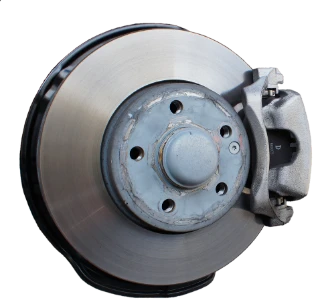
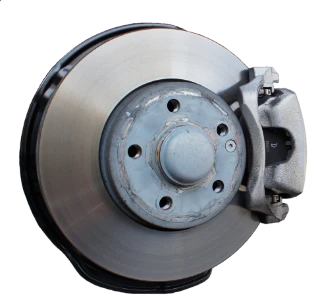
feat(hero): oval ring, consistent badge size, plain part names; product photos
Owner asked for: consistent text size per car, a more oval / taller ring
with the labels lower, "Engine parts" not "Mercedes-AMG", no red brand
lines, "Body parts" not "Front bumper", and images on the products.

Hero
- Badge letters are now the same height on every car. Each word used to
  be fitted to its own box, so BMW's letters were ~2x MERCEDES's. Every
  SVG is now sized as a fraction (--bw) of the LONGEST badge, so the
  letter height is shared and only the word's width differs. VOLKSWAGEN
  and RANGE ROVER badges shortened to VW / ROVER so the shared scale
  stays big (measured: all six 194px tall / 181px letters).
- Ring is more oval: --rx 41vw -> 43vw, --ry 16.4vw -> 18vw; the stage is
  taller (52vw/660 -> 56vw/730) and the ring lifted (inset-bottom 128px)
  so the lower arc clears the model caption. Labels sit 16px below the
  image. index.html's skeleton stage height synced (it had drifted).
- Brand lines (Lemforder, OEM, Remsa, ...) removed from every part.
  "Mercedes-AMG Engine & parts" -> "Engine parts"; "Front bumper" ->
  "Body parts".
- Brake disc cut-out re-exported: a fixed 72% cap had clipped ~10px off
  the caliper (solid edge is at 72.7%). Now found by scanning columns.

Products
- img/products/: spark plug, brake caliper, suspension and tail-light
  images (480px WebP). The tail light is a Pixabay photo (Content
  License), cropped to the lamp, no readable branding.

scripts/bootstrap-admin.js: first-admin creator that prompts for the
[…]

diff --git a/scripts/bootstrap-admin.js b/scripts/bootstrap-admin.js
@@ -1,0 +1,100 @@
+#!/usr/bin/env node
+/*
+ * Creates the FIRST admin account for the German Expert admin panel.
+ *
+ *   node scripts/bootstrap-admin.js
+ *
+ * Run it yourself, in your own terminal (PowerShell / Command Prompt), NOT
+ * through Claude: it asks for the password with the typing hidden, and the
+ * password goes straight from your keyboard to Supabase. Nobody else ever sees
+ * or chooses it.
+ *
+ * It only works ONCE. The edge function refuses to bootstrap as soon as one
+ * admin exists ("already_bootstrapped"); after that, further accounts are
+ * added from the admin panel's own Accounts tab while logged in.
+ *
+ * Plain Node, no dependencies. --dry-run shows what would be sent without
+ * sending it (and without asking for a password).
+ */
+'use strict';
+const fs = require('fs');
+const path = require('path');
+const readline = require('readline');
+
+const DRY = process.argv.includes('--dry-run');
+
+// The URL and the publishable (public, not secret) key live in one config file.
+const cfg = fs.readFileSync(path.join(__dirname, '..', 'code', 'js', '01-config-data.js'), 'utf8');
+const url = (cfg.match(/GE_SB_URL\s*=\s*'([^']+)'/) || [])[1];
+const keyB64 = (cfg.match(/GE_SB_KEY_B64\s*=\s*'([^']+)'/) || [])[1];
+if (!url || !keyB64) { console.error('Could not read the Supabase URL/key from code/js/01-config-data.js'); process.exit(1); }
+const key = Buffer.from(keyB64, 'base64').toString('utf8');
+
+const ROLE_LIST = [
+  ['super',   'super   - owner, full access'],
+  ['bahar15', 'bahar15 - manager'],
+  ['1',       '1       - admin'],
+  ['custom',  'custom  - team member (limited tabs)']
+];
+const ROLES = Object.fromEntries(ROLE_LIST);
+
+const rl = readline.createInterface({ input: process.stdin, output: process.stdout, terminal: !!process.stdin.isTTY });
+let muted = false;
+rl._writeToOutput = function (s) {
+  // While muted, swallow everything except the line break so the password is not echoed.
+  if (!muted) rl.output.write(s);
+  else if (s === '\r\n' || s === '\n') rl.output.write(s);
+};
+// Lines are queued as they arrive, so it works the same typed by hand (hidden
+// password) or piped in for testing.
+const queue = [], waiting = [];
+rl.on('line', line => { muted = false; (waiting.shift() || (v => queue.push(v)))(line); });
+const ask = (q, hidden) => new Promise(res => {
+  process.stdout.write(q);
+  muted = !!hidden;
+  if (queue.length) { muted = false; res(queue.shift()); } else waiting.push(res);
+});
+
+(async () => {
+  console.log('\nGerman Expert - create the first admin account');
+  console.log('Project: ' + url + '\n');
+
+  const username = (await ask('Username (letters/numbers, e.g. owner): ')).trim().toLowerCase();
+  if (!/^[a-z0-9._-]{3,32}$/.test(username)) { console.error('\nUsername must be 3-32 characters: letters, numbers, . _ -'); process.exit(1); }
+
+  console.log('\nRoles:'); ROLE_LIST.forEach(r => console.log('  ' + r[1]));
+  const role = ((await ask('\nRole [super]: ')).trim() || 'super');
+  if (!ROLES[role]) { console.error('\nUnknown role "' + role + '"'); process.exit(1); }
+
+  if (DRY) {
+    console.log('\n--dry-run: would POST to ' + url + '/functions/v1/admin-manage-accounts');
+    console.log(JSON.stringify({ action: 'bootstrap', accounts: [{ username, password: '<hidden>', role }] }, null, 2));
+    rl.close(); return;
+  }
+
+  const pw1 = await ask('Password (typing is hidden, 10+ characters): ', true);
+  const pw2 = await ask('Repeat password: ', true);
+  rl.close();
+  if (pw1 !== pw2) { console.error('\nThe two passwords do not match. Nothing was sent.'); process.exit(1); }
+  if (pw1.length < 10) { console.error('\nUse at least 10 characters. Nothing was sent.'); process.exit(1); }
+
+  const res = await fetch(url + '/functions/v1/admin-manage-accounts', {
+    method: 'POST',
+    headers: { 'Content-Type': 'application/json', apikey: key, Authorization: 'Bearer ' + key },
+    body: JSON.stringify({ action: 'bootstrap', accounts: [{ username, password: pw1, role }] })
+  });
+  const text = await res.text();
+  let body; try { body = JSON.parse(text); } catch (e) { body = { raw: text }; }
+
+  if (res.ok && body.ok) {
+    console.log('\nDone. Account created: ' + username + '  (role: ' + role + ')');
+    console.log('Log in at https://mukarramkebra.github.io/German-Expert/admin/ with that username and your password.');
+  } else if (body && body.error === 'already_bootstrapped') {
+    console.error('\nAn admin account already exists, so bootstrap is closed (it only works once).');
+    console.error('Log in to the admin panel and add more accounts from its Accounts tab.');
+    process.exit(1);
+  } else {
+    console.error('\nFailed (' + res.status + '): ' + text);
+    process.exit(1);
+  }
+})().catch(e => { console.error('\nError: ' + e.message); process.exit(1); });

diff --git a/code/js/08-hero.js b/code/js/08-hero.js
@@ -60,16 +60,16 @@
 // every icon-only entry made way for them (a red glyph vanished into the
 // red make badge behind the car). Eight spaces them 45 degrees apart.
 const HERO_PARTS = [
-  { brand: 'Remsa',         part: 'Brake pads',        cat: 'brakes',      img: 'img/parts/remsa-brake-pads.webp' },
-  { brand: 'OEM',           part: 'Brake disc',        cat: 'brakes',      img: 'img/parts/brake-disc.webp' },
-  { brand: 'Lemförder',     part: 'Control arm',       cat: 'suspension',  img: 'img/parts/lemforder-control-arm.webp' },
-  { brand: 'OEM',           part: 'Suspension & axle', cat: 'suspension',  img: 'img/parts/suspension-assembly.webp' },
-  { brand: 'Hella',         part: 'Headlight unit',    cat: 'body-lights', img: 'img/parts/audi-headlight.webp' },
-  { brand: 'Bosch',         part: 'Spark plugs',       cat: 'electrical',  img: 'img/parts/bosch-spark-plug.webp' },
-  { brand: 'OEM',           part: 'Air filter',        cat: 'filters',     img: 'img/parts/air-filter.webp' },
-  { brand: 'Behr',          part: 'Radiator',          cat: 'cooling',     img: 'img/parts/behr-radiator.webp' },
-  { brand: 'Mercedes-AMG',  part: 'Engine & parts',    cat: 'engine',      img: 'img/parts/engine.webp' },
-  { brand: 'Body',          part: 'Front bumper',      cat: 'body-lights', img: 'img/parts/front-bumper.webp' }
+  { part: 'Brake pads',        cat: 'brakes',      img: 'img/parts/remsa-brake-pads.webp' },
+  { part: 'Brake disc',        cat: 'brakes',      img: 'img/parts/brake-disc.webp' },
+  { part: 'Control arm',       cat: 'suspension',  img: 'img/parts/lemforder-control-arm.webp' },
+  { part: 'Suspension & axle', cat: 'suspension',  img: 'img/parts/suspension-assembly.webp' },
+  { part: 'Headlight unit',    cat: 'body-lights', img: 'img/parts/audi-headlight.webp' },
+  { part: 'Spark plugs',       cat: 'electrical',  img: 'img/parts/bosch-spark-plug.webp' },
+  { part: 'Air filter',        cat: 'filters',     img: 'img/parts/air-filter.webp' },
+  { part: 'Radiator',          cat: 'cooling',     img: 'img/parts/behr-radiator.webp' },
+  { part: 'Engine parts',      cat: 'engine',      img: 'img/parts/engine.webp' },
+  { part: 'Body parts',        cat: 'body-lights', img: 'img/parts/front-bumper.webp' }
 ];
 
 const HERO_CARS = [
@@ -133,7 +133,7 @@ const HERO_CARS = [
     srcSmall: 'img/hero/vw-touareg-sm.webp', wSmall: 760,
     model: 'TOUAREG',
     make: 'volkswagen',
-    badge: 'VOLKSWAGEN',
+    badge: 'VW',
     scale: 0.84,
     alt: 'Volkswagen Touareg SUV',
     callouts: [
@@ -150,7 +150,7 @@ const HERO_CARS = [
     srcSmall: 'img/hero/range-rover-sport-sm.webp', wSmall: 760,
     model: 'SPORT',
     label: 'Range Rover',
-    badge: 'RANGE ROVER',
+    badge: 'ROVER',
     scale: 0.9,
     alt: 'Range Rover Sport SUV',
     callouts: [
@@ -200,6 +200,16 @@ const HERO_SHADER_PRESET = {
       const m = (typeof CAR_MAKES !== 'undefined' && Array.isArray(CAR_MAKES)) ? CAR_MAKES.find(x => x.slug === slug) : null;
       return m ? m.label : '';
     };
+    // One shared scale for every badge. Each word used to be fitted to its own
+    // box, so a 3-letter word (BMW) came out with letters twice the height of an
+    // 8-letter one (MERCEDES). Sizing every SVG as a fraction of the LONGEST
+    // word's width gives all of them identical letter height; only the width of
+    // the word changes. Keep badges short or the longest one sets the size.
+    const badgeVbW = c => {
+      const t = String(c.badge || c.label || makeName(c.make) || c.model || '').trim();
+      return Math.max(360, t.length * 190 + 60);
+    };
+    const maxBadgeVbW = Math.max.apply(null, cars.map(badgeVbW));
     stage.innerHTML = cars.map((c, i) => {
       const label = c.label || makeName(c.make);
       const scale = Number(c.scale) > 0 ? Number(c.scale) : 1;
@@ -213,7 +223,7 @@ const HERO_SHADER_PRESET = {
       // so the stroke thins out proportionally instead of staying chunky.
       const vbW = Math.max(360, badgeText.length * 190 + 60);
       const badge = !badgeText ? '' : `
-          <svg class="ge-car-model" viewBox="0 0 ${vbW} 300" preserveAspectRatio="xMidYMid meet" aria-hidden="true" focusable="false">
+          <svg class="ge-car-model" style="--bw:${(vbW / maxBadgeVbW).toFixed(4)}" viewBox="0 0 ${vbW} 300" preserveAspectRatio="xMidYMid meet" aria-hidden="true" focusable="false">
             <defs>
               <linearGradient id="geModelGrad${i}" x1="0%" y1="100%" x2="100%" y2="0%">
                 <stop offset="0%" stop-color="#c1121f" />

diff --git a/code/css/10-hero.css b/code/css/10-hero.css
@@ -68,7 +68,7 @@
 .ge-hero-trust i { color: var(--gold); }
 
 /* ── Car stage: giant outlined model number, car in front of it ── */
-.ge-hero-stage { position: relative; height: clamp(320px, 52vw, 660px); perspective: 1400px; perspective-origin: 50% 40%; }
+.ge-hero-stage { position: relative; height: clamp(340px, 56vw, 730px); perspective: 1400px; perspective-origin: 50% 40%; }
 .ge-hero.no-car .ge-hero-stage { display: none; }
 .ge-car {
   position: absolute; inset: 0; margin: 0;
@@ -89,7 +89,9 @@
    covers it and the composition reads as a plain product shot. */
 .ge-car-model {
   position: absolute; left: 50%; top: 50%; transform: translate(-50%, -54%);
-  width: min(96%, 1020px); height: 92%; z-index: 0; pointer-events: none; overflow: visible;
+  /* --bw (set per car in 08-hero.js) is this word's width as a fraction of the
+     LONGEST badge, so height:auto gives every car identical letter height. */
+  width: calc(min(96%, 1020px) * var(--bw, 1)); height: auto; z-index: 0; pointer-events: none; overflow: visible;
   filter: drop-shadow(0 0 46px rgba(239,59,66, .14));
 }
 
@@ -140,7 +142,7 @@
      the model caption in the bottom corner. The parts are much wider now, so
      the bottom-right one used to slide behind "MERCEDES-BENZ E-CLASS". There
      is headroom above to pay for it: the top arc still clears the header. */
-  position: absolute; inset: 0 0 84px 0; z-index: 0; pointer-events: none;
+  position: absolute; inset: 0 0 128px 0; z-index: 0; pointer-events: none;
   --ge-orbit: 0deg;
   /* Wide and shallow: a flat, tilted ring around the car rather than a circle,
      which is what reads as "orbit" instead of "clock face". */
@@ -154,14 +156,14 @@
      2026-11-14), which is why those moved inboard to 16%. At 1280px the
      VIEWPORT, not the stage, is the binding constraint: half of it is 640px
      and a part is ~76px wide, so anything past ~562px gets clipped. */
-  --rx: clamp(190px, 41vw, 596px);
+  --rx: clamp(200px, 43vw, 626px);
   /* Squeezed from both sides, so leave it alone. It has to beat half the
      car's height plus half a chip or the bottom parts come out from behind
      the wheels mid-word (under ~215 at 1440, where the car is ~277px tall).
      It also has to stay INSIDE the stage, which is 52vw and shrinks faster
      than the ring would: at 20vw the bottom chips landed on the caption and
      the slide dots at 1100px. 16.4vw is the width that satisfies both. */
-  --ry: clamp(92px, 16.4vw, 222px);
+  --ry: clamp(100px, 18vw, 250px);
   animation: geOrbit 60s linear infinite;
 }
 @keyframes geOrbit { to { --ge-orbit: 360deg; } }
@@ -187,7 +189,7 @@
 span.ge-ring-item { cursor: default; }
 
 .ge-ring-face {
-  display: flex; flex-direction: column; align-items: center; gap: 9px;
+  display: flex; flex-direction: column; align-items: center; gap: 16px;
   width: clamp(104px, 10.6vw, 152px);
 }
 /* Parts show in their OWN shape (owner, 2026-11-14: "the images should be the
@@ -411,7 +413,7 @@ button.ge-car-chip:focus-visible { outline: 2px solid var(--orange-light); outli
     -webkit-backdrop-filter: none; backdrop-filter: none;
     background: rgba(12, 14, 18, .58);
   }
-  .ge-car-model { width: 94%; height: 62%; transform: translate(-50%, -78%); }
+  .ge-car-model { width: calc(94% * var(--bw, 1)); height: auto; transform: translate(-50%, -78%); }
   .ge-car-cap { left: 0; right: 0; bottom: 92px; align-items: center; text-align: center; }
   /* A scroll strip, not a justified row. There are ten parts and a 390px
      screen; `flex: 1 1 0` divided that by ten and gave each chip 39px. Each

diff --git a/index.html b/index.html
@@ -117,7 +117,7 @@
     .ge-hero-bg { position: absolute; inset: 0; z-index: -1; }
     .ge-hero-canvas { position: absolute; inset: 0; width: 100%; height: 100%; display: block; opacity: 0; }
     .ge-hero-inner { position: relative; z-index: 1; width: 100%; max-width: 1240px; margin: 0 auto; padding: 34px 24px 56px; }
-    .ge-hero-stage { height: clamp(320px, 46vw, 560px); }
+    .ge-hero-stage { height: clamp(340px, 56vw, 730px); }
     @media (max-width: 900px) {
       .ge-hero { min-height: 0; }
       .ge-hero-inner { padding: 28px 20px 48px; }
